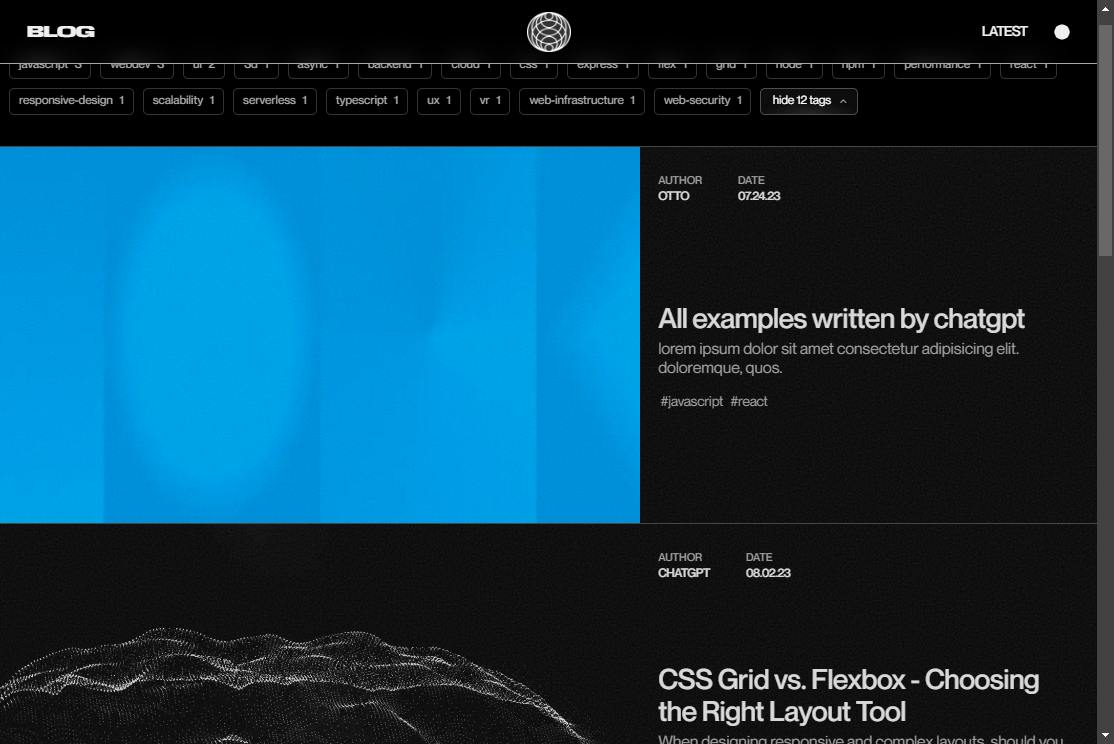
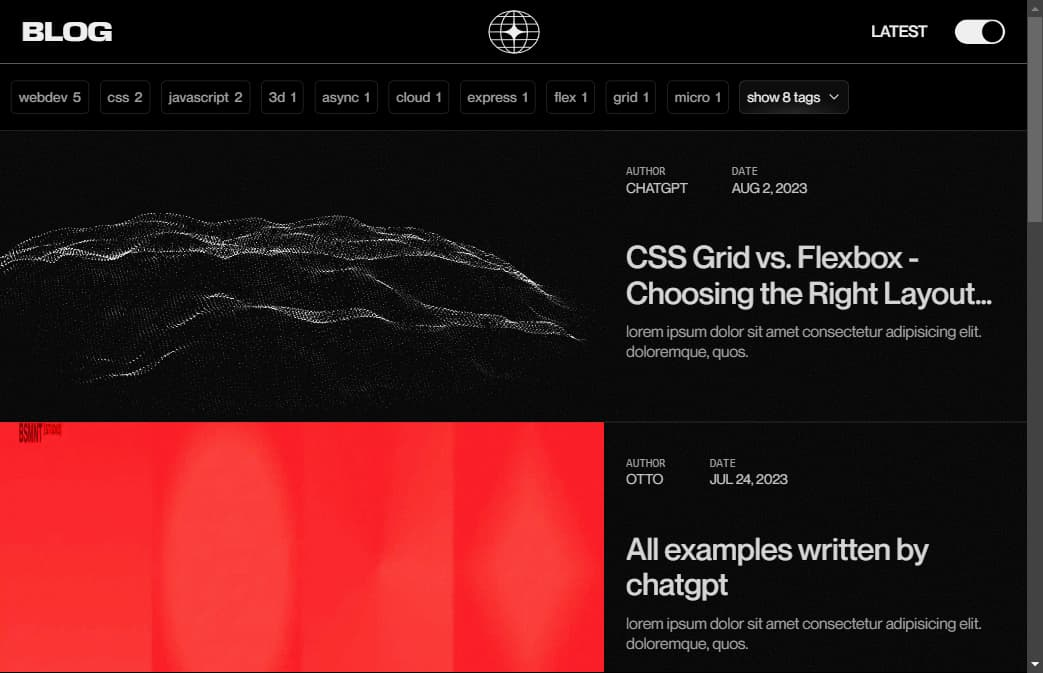
update readme

diff --git a/README.md b/README.md
@@ -2,6 +2,10 @@
 
 > **Warning**
 > This project is still a work in progress and is not ready for production use.
+
+- Currently finishing up post styling
+- None of the current posts are mine, they are just placeholders for now.
+
 <!-- > [See roadmap](#roadmap) -->
 <!-- ## Work in progress -->
 
